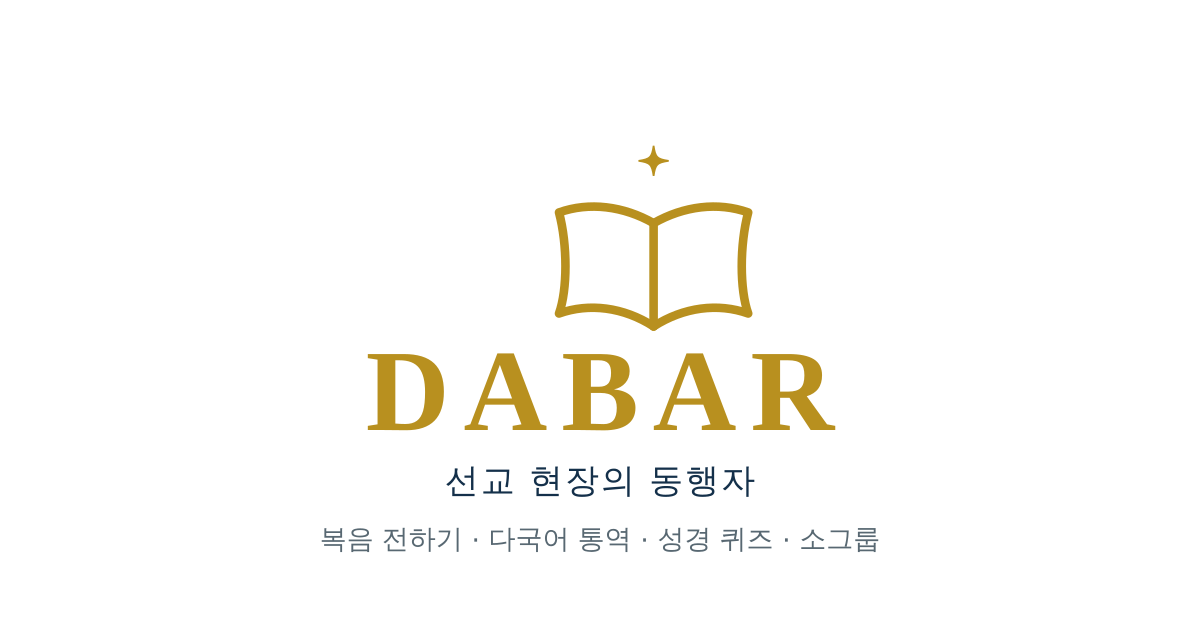
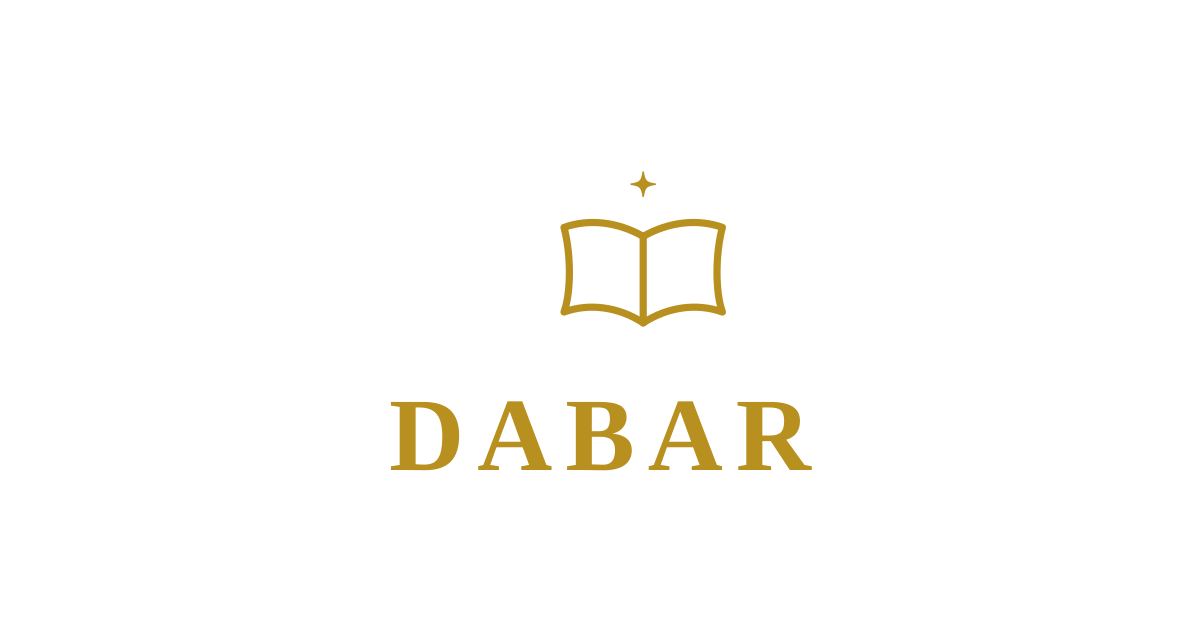
design: gold unify (share/reach) + reach redesign + romans desc + OG/meta
- 복음/선교 sections now match their gold home cards: AppShell brand, /reach
  header & tool titles (FX/scan), and VoiceTranslator seeker side switch from
  green (theme.gold) to sacred gold.
- 로마서로의 길 wide tool tile now shows its description (was missing on the wide
  variant).
- /reach (선교 여정) redesign: gold serif header + ✦ flourish + subtitle, gold
  section labels with line icons (calc/mic), FX & scan card titles to gold line
  icons, tidier spacing. New calc/camera/mic icons + reach.sub/sec keys.
- OG image is now logo-only on white; share title/description updated to
  "DABAR · 복음 전파 · 양육 — 현장의 동행자" (og ?v=4).

https://claude.ai/code/session_01VXTBrvNeWPwfFyGRJSAmEq

diff --git a/app/reach/page.tsx b/app/reach/page.tsx
@@ -2,35 +2,59 @@
 import { useRouter } from "next/navigation";
 import { theme } from "@/lib/theme";
 import { useI18n } from "@/lib/i18n";
+import { serif } from "@/lib/ui";
+import MenuIcon from "@/components/MenuIcon";
 import HomeFxCard from "@/components/HomeFxCard";
 import MenuScanner from "@/components/MenuScanner";
 import SosButton from "@/components/SosButton";
 import VoiceTranslator from "@/components/besora/VoiceTranslator";
 import { LanguageProvider } from "@/lib/besora/LanguageContext";
 
-// 사역 · 선교 · 전도 여정 — 현장 도구: 환율 계산기 + 음성 통역.
+// 작은 섹션 라벨 — 골드 라인 아이콘 + 세리프 제목 (선교 여정 전용 구조)
+function SectionLabel({ icon, children }: { icon: string; children: React.ReactNode }) {
+  return (
+    <div style={{ display: "flex", alignItems: "center", gap: 8, margin: "18px 2px 9px" }}>
+      <MenuIcon name={icon} size={18} color="var(--t-sacred)" />
+      <span className="serif" style={{ fontSize: 16, fontWeight: 700, color: "var(--t-sacred)", letterSpacing: -0.2 }}>{children}</span>
+      <span style={{ flex: 1, height: 1, background: "var(--t-sacredBorder)", marginLeft: 4 }} />
+    </div>
+  );
+}
+
+// 사역 · 선교 · 전도 여정 — 현장 도구: 환율 계산기 + 이미지 번역 + 실시간 통역.
 export default function ReachPage() {
   const router = useRouter();
   const { t } = useI18n();
   return (
-    <main style={{ maxWidth: 520, margin: "0 auto", padding: "0.7rem 1rem 1.2rem", minHeight: "100dvh" }}>
-      <div style={{ display: "flex", alignItems: "center", justifyContent: "space-between", marginBottom: 10 }}>
-        <button onClick={() => router.push("/")} style={{ fontSize: 13, color: theme.textMuted, background: "transparent", border: `1px solid ${theme.border}`, borderRadius: 16, padding: "6px 12px", cursor: "pointer" }}>{t("common.home")}</button>
-        <h1 className="serif" style={{ fontSize: 18, fontWeight: 700, color: theme.gold, margin: 0, textAlign: "center", flex: 1, letterSpacing: -0.2 }}>{t("reach.title")}</h1>
-        <span style={{ width: 52 }} />
+    <main style={{ maxWidth: 520, margin: "0 auto", padding: "0.7rem 1rem 1.4rem", minHeight: "100dvh" }}>
+      {/* 헤더 — 골드 세리프 + 부제 */}
+      <div style={{ display: "flex", alignItems: "center", gap: 8, marginBottom: 4 }}>
+        <button onClick={() => router.push("/")} aria-label={t("common.back")} style={{ flexShrink: 0, fontSize: 13, color: theme.textMuted, background: "transparent", border: `1px solid ${theme.border}`, borderRadius: 16, padding: "6px 12px", cursor: "pointer", whiteSpace: "nowrap" }}>{t("common.home")}</button>
+        <span style={{ flex: 1 }} />
+      </div>
+      <div style={{ textAlign: "center", marginBottom: 4 }}>
+        <h1 className="serif" style={{ fontSize: 25, fontWeight: 700, color: "var(--t-sacred)", margin: 0, letterSpacing: -0.2 }}>{t("reach.title")}</h1>
+        <div aria-hidden style={{ display: "flex", alignItems: "center", justifyContent: "center", gap: 7, margin: "5px 0 3px" }}>
+          <span style={{ width: 26, height: 1, background: "linear-gradient(90deg, transparent, var(--t-sacred))" }} />
+          <span style={{ color: "var(--t-sacred)", fontSize: 9, lineHeight: 1 }}>✦</span>
+          <span style={{ width: 26, height: 1, background: "linear-gradient(90deg, var(--t-sacred), transparent)" }} />
+        </div>
+        <p style={{ fontSize: 12.5, color: theme.textMuted, margin: 0 }}>{t("reach.sub")}</p>
       </div>
 
-      {/* 환율 계산기(왼쪽) + 이미지 번역(오른쪽) 반반 · 박스 높이 동일(stretch) */}
+      <SectionLabel icon="calc">{t("reach.secTools")}</SectionLabel>
+      {/* 환율 계산기(왼쪽) + 이미지 번역(오른쪽) 반반 · 높이 동일 */}
       <div style={{ display: "grid", gridTemplateColumns: "minmax(0,1fr) minmax(0,1fr)", gap: 8, alignItems: "stretch" }}>
         <HomeFxCard />
         <MenuScanner />
       </div>
 
-      {/* 음성 통역 — 크게(세로 배치): 내 언어 한 줄, 상대 언어 한 줄 */}
+      <SectionLabel icon="mic">{t("reach.secVoice")}</SectionLabel>
+      {/* 음성 통역 — 크게(세로 배치) */}
       <LanguageProvider><VoiceTranslator inline big /></LanguageProvider>
 
-      {/* 🆘 긴급 SOS — 동행 문자 + 긴급기관 전화 */}
-      <SosButton />
+      {/* 🆘 긴급 SOS */}
+      <div style={{ marginTop: 18 }}><SosButton /></div>
     </main>
   );
 }

diff --git a/components/MenuIcon.tsx b/components/MenuIcon.tsx
@@ -99,6 +99,23 @@ const PATHS: Record<string, React.ReactNode> = {
   droplet: (<path d="M12 3.2s6 6.4 6 10.3a6 6 0 0 1-12 0c0-3.9 6-10.3 6-10.3z" />),
   // 입교 — 십자가
   cross: (<><path d="M12 3v18" /><path d="M6.5 8.5h11" /></>),
+  // 환율 — 계산기
+  calc: (<>
+    <rect x="5" y="3" width="14" height="18" rx="2.4" />
+    <rect x="8" y="6" width="8" height="3.2" rx="0.8" />
+    <path d="M8.5 13h.01M12 13h.01M15.5 13h.01M8.5 16.5h.01M12 16.5h.01M15.5 16.5h.01" />
+  </>),
+  // 이미지 번역 — 카메라
+  camera: (<>
+    <path d="M4 7.5h3L9 5.5h6L17 7.5h3a1.5 1.5 0 0 1 1.5 1.5v9A1.5 1.5 0 0 1 20 19.5H4A1.5 1.5 0 0 1 2.5 18V9A1.5 1.5 0 0 1 4 7.5z" />
+    <circle cx="12" cy="13" r="3.4" />
+  </>),
+  // 음성 통역 — 마이크
+  mic: (<>
+    <rect x="9" y="3" width="6" height="11" rx="3" />
+    <path d="M5.5 11a6.5 6.5 0 0 0 13 0" />
+    <path d="M12 17.5V21" /><path d="M8.5 21h7" />
+  </>),
   // 현황판 — 대시보드
   dashboard: (<>
     <rect x="3.5" y="3.5" width="7" height="8.5" rx="1.4" />

diff --git a/app/layout.tsx b/app/layout.tsx
@@ -9,24 +9,24 @@ import ErrorReporter from "@/components/ErrorReporter";
 
 export const metadata: Metadata = {
   metadataBase: new URL("https://dabar.theamov.com"),
-  title: "DABAR · 다바르",
-  description: "복음 전하기 · 다국어 통역 · 이미지 번역 · 성경 퀴즈 · 소그룹 · 긴급 SOS — 선교 현장의 동행자 🕊️",
+  title: "DABAR · 복음 전파 · 양육 — 현장의 동행자",
+  description: "복음 전파와 양육, 선교 현장의 동행자 🕊️",
   manifest: "/manifest.json",
   appleWebApp: { capable: true, statusBarStyle: "black-translucent", title: "DABAR" },
   openGraph: {
-    title: "DABAR · 다바르 — 선교 현장의 동행자",
-    description: "복음 전하기 · 다국어 통역 · 이미지 번역 · 성경 퀴즈 · 소그룹 · 긴급 SOS",
+    title: "DABAR · 복음 전파 · 양육 — 현장의 동행자",
+    description: "복음 전파와 양육, 선교 현장의 동행자",
     url: "https://dabar.theamov.com",
     siteName: "DABAR",
-    images: [{ url: "/og.png?v=3", width: 1200, height: 630, alt: "DABAR · 다바르 — 선교 현장의 동행자" }],
+    images: [{ url: "/og.png?v=4", width: 1200, height: 630, alt: "DABAR · 복음 전파 · 양육 — 현장의 동행자" }],
     locale: "ko_KR",
     type: "website",
   },
   twitter: {
     card: "summary_large_image",
-    title: "DABAR · 다바르 — 선교 현장의 동행자",
-    description: "복음 전하기 · 다국어 통역 · 이미지 번역 · 성경 퀴즈 · 소그룹 · 긴급 SOS",
-    images: ["/og.png?v=3"],
+    title: "DABAR · 복음 전파 · 양육 — 현장의 동행자",
+    description: "복음 전파와 양육, 선교 현장의 동행자",
+    images: ["/og.png?v=4"],
   },
 };
 

diff --git a/components/MenuScanner.tsx b/components/MenuScanner.tsx
@@ -5,6 +5,7 @@ import { useRef, useState } from "react";
 import { createPortal } from "react-dom";
 import { theme } from "@/lib/theme";
 import { useI18n, LANGS } from "@/lib/i18n";
+import MenuIcon from "@/components/MenuIcon";
 
 type Item = { original: string; translated: string };
 
@@ -58,9 +59,9 @@ export default function MenuScanner() {
 
   return (
     <div className="fade-in-3" style={{ height: "100%", display: "flex", flexDirection: "column", background: theme.card, border: `1px solid ${theme.cardBorder}`, borderRadius: 16, padding: "12px 13px" }}>
-      <div style={{ display: "flex", alignItems: "center", gap: 7, marginBottom: 3 }}>
-        <span style={{ fontSize: 16 }}>📷</span>
-        <span style={{ fontSize: 14, fontWeight: 800, color: theme.gold }}>{t("scan.title")}</span>
+      <div className="serif" style={{ display: "flex", alignItems: "center", gap: 6, marginBottom: 3 }}>
+        <MenuIcon name="camera" size={17} color="var(--t-sacred)" />
+        <span style={{ fontSize: 14, fontWeight: 700, color: "var(--t-sacred)" }}>{t("scan.title")}</span>
       </div>
       <p style={{ margin: "0 0 10px", fontSize: 11.5, color: theme.textMuted, lineHeight: 1.4 }}>{t("scan.sub")}</p>
 
@@ -99,7 +100,7 @@ export default function MenuScanner() {
       {open && typeof document !== "undefined" && createPortal(
         <div style={{ position: "fixed", inset: 0, zIndex: 80, background: theme.bg, display: "flex", flexDirection: "column" }}>
           <div style={{ flexShrink: 0, display: "flex", alignItems: "center", justifyContent: "space-between", padding: "12px 16px", borderBottom: `1px solid ${theme.cardBorder}` }}>
-            <span style={{ fontSize: 15, fontWeight: 800, color: theme.gold }}>📷 {t("scan.title")}</span>
+            <span className="serif" style={{ display: "inline-flex", alignItems: "center", gap: 6, fontSize: 15, fontWeight: 700, color: "var(--t-sacred)" }}><MenuIcon name="camera" size={17} color="var(--t-sacred)" />{t("scan.title")}</span>
             <button onClick={() => setOpen(false)} style={{ fontSize: 14, fontWeight: 700, color: theme.text, background: theme.card, border: `1px solid ${theme.cardBorder}`, borderRadius: 999, padding: "7px 16px", cursor: "pointer" }}>{t("scan.close")} ✕</button>
           </div>
           <div style={{ flex: 1, overflowY: "auto", padding: "14px 16px 28px", maxWidth: 560, margin: "0 auto", width: "100%", boxSizing: "border-box" }}>

diff --git a/components/besora/ToolCard.tsx b/components/besora/ToolCard.tsx
@@ -31,9 +31,12 @@ export default function ToolCard({ tool, wide = false }: { tool: Tool; wide?: bo
 
   if (wide) {
     return (
-      <button onClick={go} style={{ display: "flex", height: 68, width: "100%", alignItems: "center", gap: 12, overflow: "hidden", borderRadius: 22, background: g.bg, padding: "0 20px", border: "none", cursor: "pointer" }}>
-        <span style={{ fontSize: 20, fontWeight: 700, color: fg, fontFamily: "'Noto Serif KR',serif" }}>{seekerName}</span>
-        {showBoth && <span style={{ fontSize: 12, color: fg, opacity: 0.7 }}>{myName}</span>}
+      <button onClick={go} style={{ display: "flex", minHeight: 70, width: "100%", flexDirection: "column", justifyContent: "center", gap: 2, overflow: "hidden", borderRadius: 22, background: g.bg, padding: "12px 20px", border: "none", cursor: "pointer", textAlign: "left" }}>
+        <span style={{ display: "flex", alignItems: "baseline", gap: 8 }}>
+          <span style={{ fontSize: 20, fontWeight: 700, color: fg, fontFamily: "'Noto Serif KR',serif" }}>{seekerName}</span>
+          {showBoth && <span style={{ fontSize: 12, color: fg, opacity: 0.7 }}>{myName}</span>}
+        </span>
+        {desc && <span style={{ fontSize: 11.5, lineHeight: 1.3, color: fg, opacity: 0.82 }}>{desc}</span>}
       </button>
     );
   }

diff --git a/components/besora/VoiceTranslator.tsx b/components/besora/VoiceTranslator.tsx
@@ -271,7 +271,7 @@ export default function VoiceTranslator({ inline = false, big = false }: { inlin
       </label>
       <span style={{ paddingBottom: 9, color: theme.textFaint, fontSize: 15, fontWeight: 800 }}>↔</span>
       <label style={{ flex: 1, minWidth: 0, display: "flex", flexDirection: "column", gap: 3 }}>
-        <span style={{ fontSize: 10.5, fontWeight: 800, color: theme.gold }}>{ui(myLang, "seekerLanguage")}</span>
+        <span style={{ fontSize: 10.5, fontWeight: 800, color: "var(--t-sacred)" }}>{ui(myLang, "seekerLanguage")}</span>
         <select value={seeker} onChange={(e) => setSeekerLang(e.target.value)} style={selStyle}>
           {languages.map((l) => <option key={l.code} value={l.code}>{l.name_native} ({l.code.toUpperCase()})</option>)}
         </select>
@@ -282,7 +282,7 @@ export default function VoiceTranslator({ inline = false, big = false }: { inlin
   const panes = (
     <div style={{ display: "flex", flexDirection: big ? "column" : "row", gap: big ? 8 : 8, alignItems: big ? "stretch" : "flex-start" }}>
       {pane(myLang, leftText, onLeftType, "L", theme.primarySoft, theme.primaryBg, theme.cardBorder, big)}
-      {twoWay && pane(seeker, rightText, onRightType, "R", theme.gold, theme.goldLight, theme.goldBorder, big, rightPron)}
+      {twoWay && pane(seeker, rightText, onRightType, "R", "var(--t-sacred)", "var(--t-sacredLight)", "var(--t-sacredBorder)", big, rightPron)}
     </div>
   );
   const hint = (

diff --git a/components/HomeFxCard.tsx b/components/HomeFxCard.tsx
@@ -5,6 +5,7 @@
 import { useEffect, useState } from "react";
 import { theme } from "@/lib/theme";
 import { useI18n } from "@/lib/i18n";
+import MenuIcon from "@/components/MenuIcon";
 
 // 지원 통화 (음성통역 20개 언어의 대표 통화)
 const CURRENCIES: { cur: string; flag: string }[] = [
@@ -75,7 +76,7 @@ export default function HomeFxCard() {
 
   return (
     <div className="fade-in-3" style={{ background: theme.card, border: `1px solid ${theme.cardBorder}`, borderRadius: 16, padding: "12px 11px" }}>
-      <div style={{ fontSize: 13.5, fontWeight: 800, color: theme.gold, marginBottom: 8, whiteSpace: "nowrap", overflow: "hidden", textOverflow: "ellipsis" }}>💱 {t("fx.title")}</div>
+      <div className="serif" style={{ display: "flex", alignItems: "center", gap: 6, fontSize: 14, fontWeight: 700, color: "var(--t-sacred)", marginBottom: 8, whiteSpace: "nowrap", overflow: "hidden", textOverflow: "ellipsis" }}><MenuIcon name="calc" size={17} color="var(--t-sacred)" />{t("fx.title")}</div>
 
       <Row cur={fromCur} onCur={(c) => { setFromCur(c); setLast("from"); }} value={last === "from" ? fromVal : group(fromVal)} onChange={onFrom} />
       <div style={{ display: "flex", justifyContent: "center", margin: "5px 0" }}>

diff --git a/lib/i18n.tsx b/lib/i18n.tsx
@@ -479,6 +479,9 @@ const DICT: Dict = {
   "home.reachTitle": { ko: "선교 여정", en: "Mission", th: "พันธกิจ", lo: "ມິຊັນ" },
   "home.reachSub":   { ko: "환율 계산 · 이미지 번역 · 음성·문자 통역", en: "Exchange · image translate · voice & text", th: "อัตราแลกเปลี่ยน · แปลรูป · เสียง·ข้อความ", lo: "ອັດຕາ · ແປຮູບ · ສຽງ·ຂໍ້ຄວາມ" },
   "reach.title":   { ko: "선교 여정", en: "Mission", th: "พันธกิจ", lo: "ມິຊັນ" },
+  "reach.sub":     { ko: "선교 현장의 동행 도구", en: "Tools for the mission field", th: "เครื่องมือสำหรับงานพันธกิจ", lo: "ເຄື່ອງມືສຳລັບພັນທະກິດ" },
+  "reach.secTools":{ ko: "현장 도구", en: "Field tools", th: "เครื่องมือ", lo: "ເຄື່ອງມື" },
+  "reach.secVoice":{ ko: "실시간 통역", en: "Live interpreter", th: "ล่ามสด", lo: "ການແປສົດ" },
   "reach.add":     { ko: "＋ 사람 추가", en: "＋ Add person", th: "＋ เพิ่มคน", lo: "＋ ເພີ່ມຄົນ" },
   "reach.namePh":  { ko: "이름 (예: 김OO, 카페 사장님)", en: "Name (a friend, neighbor…)", th: "ชื่อ", lo: "ຊື່" },
   "reach.notePh":  { ko: "기도제목·메모 (예: 건강 문제로 마음이 열림)", en: "Prayer / note", th: "คำอธิษฐาน / บันทึก", lo: "ຄຳອະທິຖານ / ບັນທຶກ" },

diff --git a/components/besora/AppShell.tsx b/components/besora/AppShell.tsx
@@ -28,7 +28,7 @@ export default function AppShell({ children }: { children: ReactNode }) {
           <Link href="/" aria-label={ui(myLang, "home")} style={{ display: "inline-flex", alignItems: "center", gap: 3, fontSize: 12.5, fontWeight: 700, color: theme.textMuted, background: theme.card, border: `1px solid ${theme.cardBorder}`, borderRadius: 16, padding: "6px 11px", textDecoration: "none", whiteSpace: "nowrap", flexShrink: 0 }}>
             ← {ui(myLang, "home")}
           </Link>
-          <Link href="/share" style={{ fontSize: 18, fontWeight: 800, color: theme.gold, textDecoration: "none", letterSpacing: 0.3, whiteSpace: "nowrap", overflow: "hidden", textOverflow: "ellipsis" }}>
+          <Link href="/share" style={{ fontSize: 18, fontWeight: 800, color: "var(--t-sacred)", textDecoration: "none", letterSpacing: 0.3, whiteSpace: "nowrap", overflow: "hidden", textOverflow: "ellipsis" }}>
             🕊️ {ui(myLang, "appName")}
           </Link>
         </div>